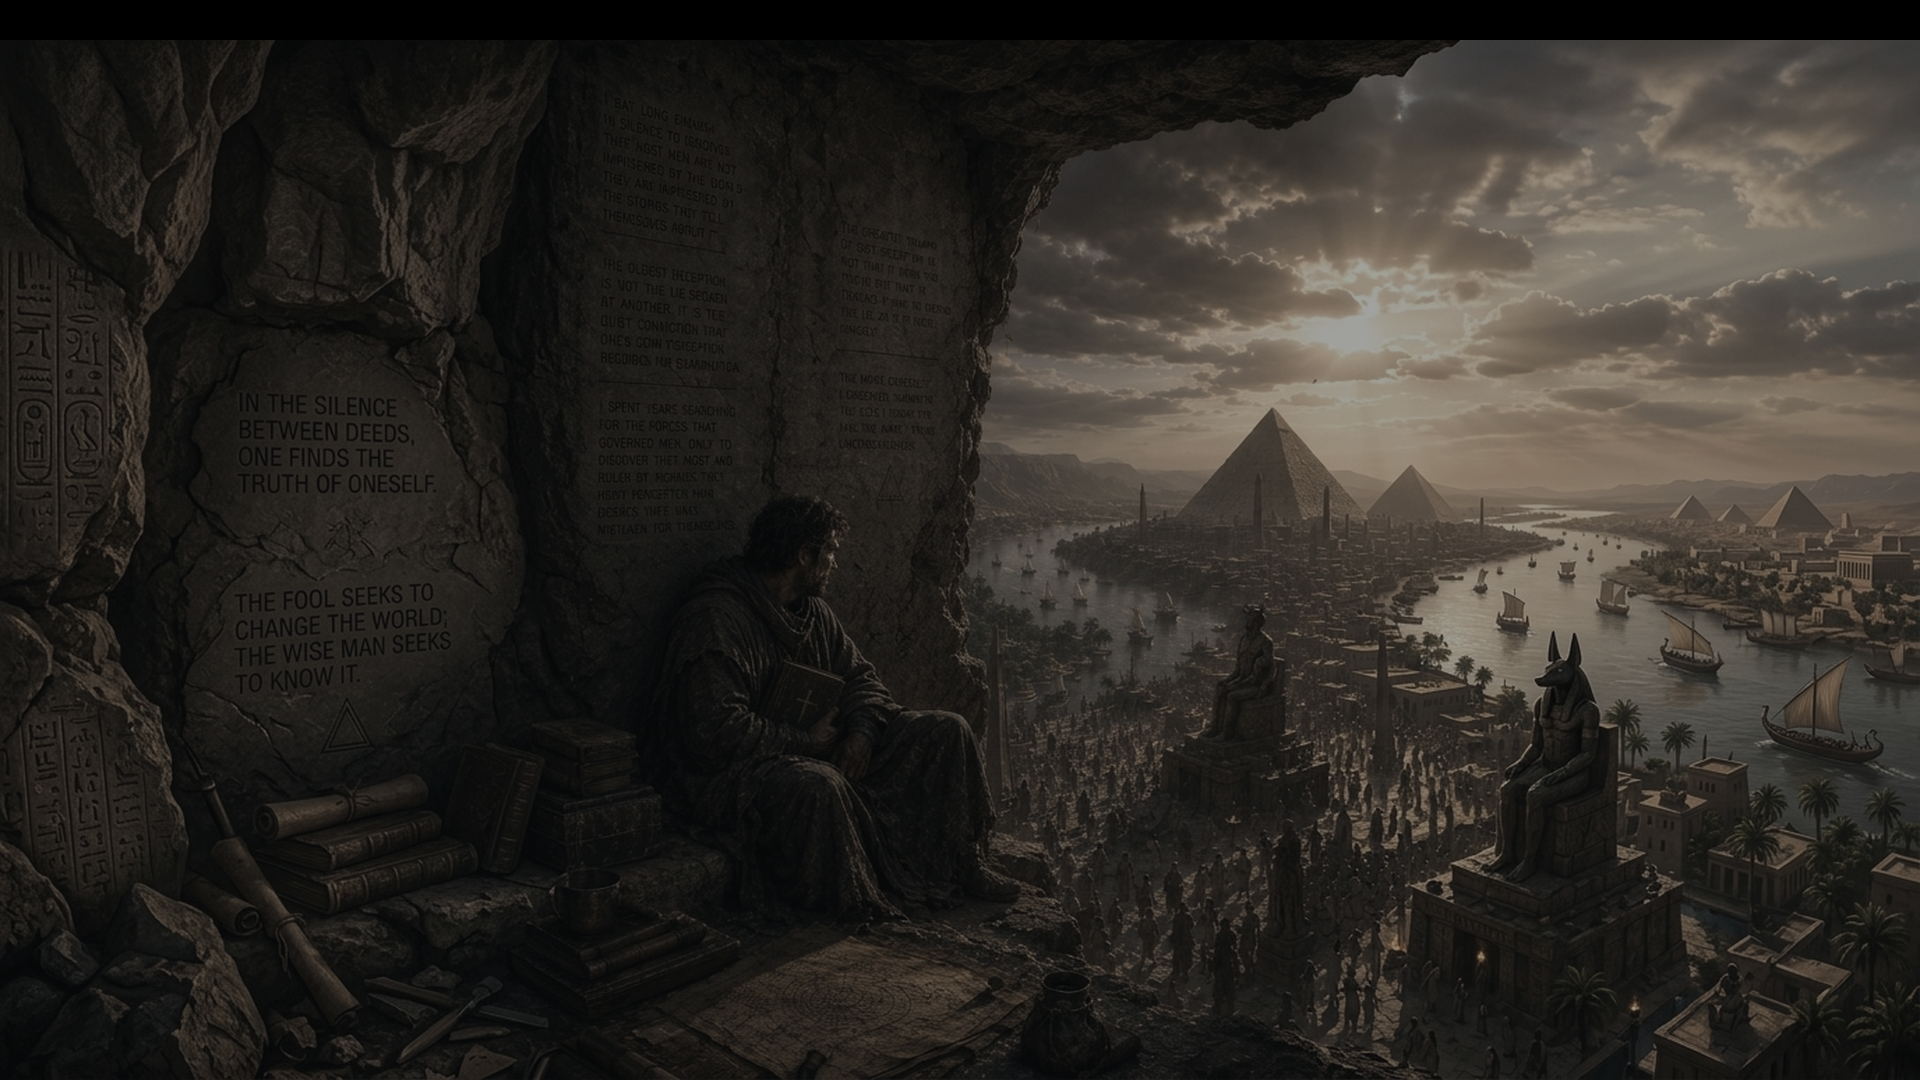
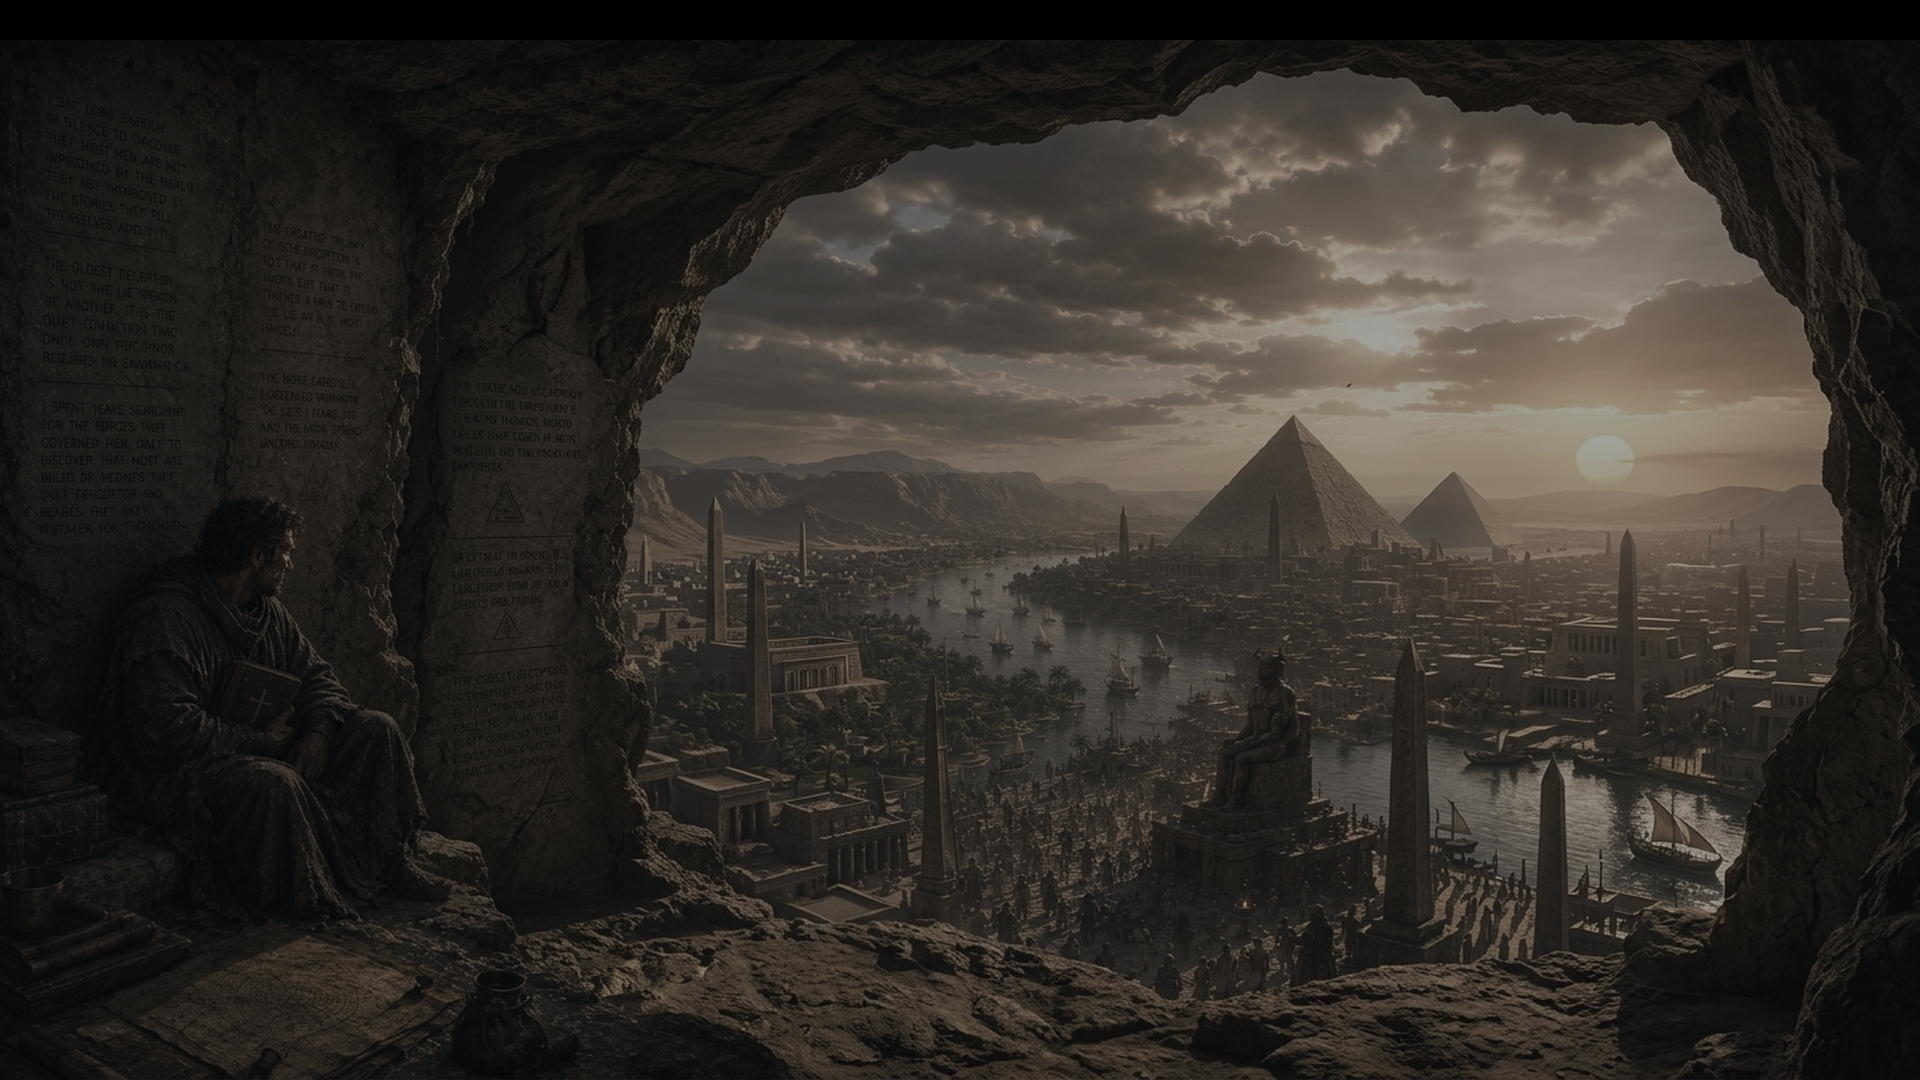
Update...

diff --git a/scripts/process_wallpaper.py b/scripts/process_wallpaper.py
@@ -3,7 +3,7 @@ import os
 from PIL import Image, ImageEnhance
 
 def process_wallpaper():
-    input_path = "/home/aditya/.gemini/antigravity/brain/91fa5726-b486-43c6-b6ae-1ac27fdfd7a0/expanded_wallpaper_1783066910261.jpg"
+    input_path = "/home/aditya/.gemini/antigravity/brain/91fa5726-b486-43c6-b6ae-1ac27fdfd7a0/wider_cave_wallpaper_1783067501951.jpg"
     output_path = os.path.expanduser("~/dotfiles/wallpaper.png")
     
     if not os.path.exists(input_path):
@@ -43,7 +43,7 @@ def process_wallpaper():
     # Save output
     os.makedirs(os.path.dirname(output_path), exist_ok=True)
     canvas.save(output_path, "PNG")
-    print(f"Processed landscape wallpaper successfully saved to: {output_path}")
+    print(f"Processed wider-cave landscape wallpaper successfully saved to: {output_path}")
 
 if __name__ == "__main__":
     process_wallpaper()
